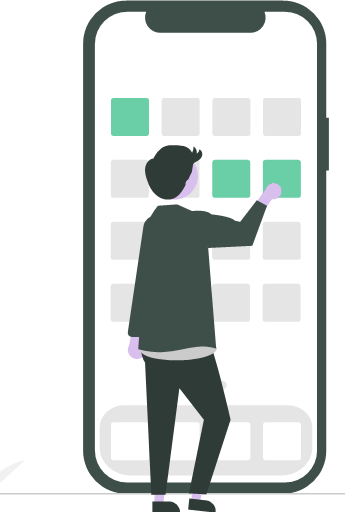
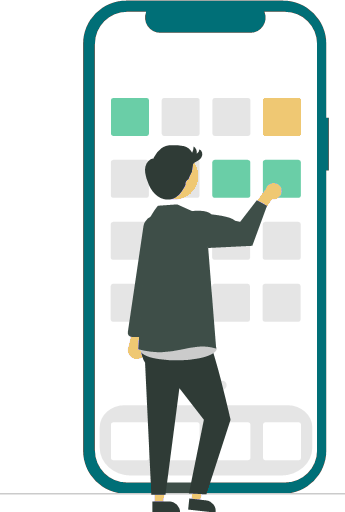
Final Swiper tweaks

diff --git a/index.html b/index.html
@@ -270,13 +270,13 @@
                                     
                                     <div class="swipe-box-1-form">
                                         
-                                        <img src="resources/img/undraw_Mobile_apps_re_3wjf-alt.png" alt="reserved">
+                                        <img src="resources/img/undraw_reviews_lp8w-alt.png" alt="reserved">
                                         
                                     </div>
 
                                     <div class="swiper-slide-caption">
-                                        <h3>Instantly reserve</h3>
-                                         <p>Pay a small fee to reserve any property for a full 24 hours.</p>
+                                        <h3>Agent Audit 2.0</h3>
+                                         <p>Our vast database helps you find the right agent, the first time.</p>
                                     </div>
                                     
                                 </div>
@@ -286,11 +286,11 @@
                               <div class="swiper-slide">
                                 <div class="swipe-box-2">
                                     <div class="swipe-box-2-form">
-                                        <img src="resources/img/undraw_For_sale_re_egkk-alt.png" alt="tour">
+                                        <img src="resources/img/undraw_pay_online_b1hk-alt.png" alt="tour">
                                     </div>
                                     <div class="swiper-slide-caption">
-                                        <h3>Virtual Tours</h3>
-                                         <p>AI generated virtual tours will have you swearing you've been there.</p>
+                                        <h3>Pinch Every Penny</h3>
+                                         <p>Link your finances to your system and we'll calculate everything in one place.</p>
                                     </div>
                                 </div>
                               </div>
@@ -298,11 +298,11 @@
                               <div class="swiper-slide">
                                 <div class="swipe-box-3">
                                     <div class="swipe-box-3-form">
-                                        <img src="resources/img/undraw_personal_information_re_vw8a-alt.png" alt="tour">
+                                        <img src="resources/img/undraw_Done_checking_re_6vyx-alt.png" alt="tour">
                                     </div>
                                     <div class="swiper-slide-caption">
-                                        <h3>Quick Approval</h3>
-                                         <p>Get approved in under 48 hours. No more anxious waiting and hoping.</p>
+                                        <h3>Turbo Negotiation</h3>
+                                         <p>Negotiations, approval, and closing all happen and lightning speed.</p>
                                     </div>
                                 </div>
                               </div>

diff --git a/resources/css/style.css b/resources/css/style.css
@@ -630,7 +630,7 @@ to a relative font-size of 150%, since font-size is set to 300% in the parent*/
   margin-bottom: 16px;
   font-weight: 600;
   font-size: 130%;
-  color: #000000;
+  color: #252525;
 }
 
 .split-left {
@@ -760,6 +760,7 @@ to a relative font-size of 150%, since font-size is set to 300% in the parent*/
   font-size: 80%;
   font-weight: normal;
   color: #000000;
+  text-align: center;
 }
 
 /* pagination bullet settings*/
@@ -771,12 +772,21 @@ to a relative font-size of 150%, since font-size is set to 300% in the parent*/
   margin: 0px 6px;
 }
 
-.swiper-pagination > .swiper-pagination-bullet-active {
-  background-color: white;
+.swiper-pagination1 > .swiper-pagination-bullet-active {
+  background-color: #168077;
+}
+
+.swiper-pagination2 > .swiper-pagination-bullet-active {
+  background-color: goldenrod;
 }
 
 .swiper-pagination {
   width: 100%;
+}
+
+div.swiper-button-prev,
+div.swiper-button-next {
+  color: gray;
 }
 
 /*------------------------------------------------------*/
